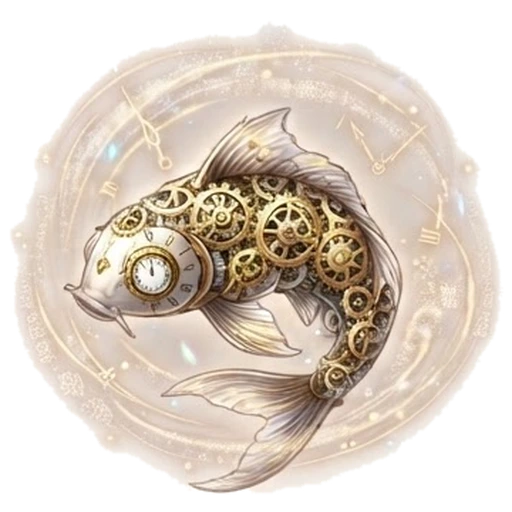
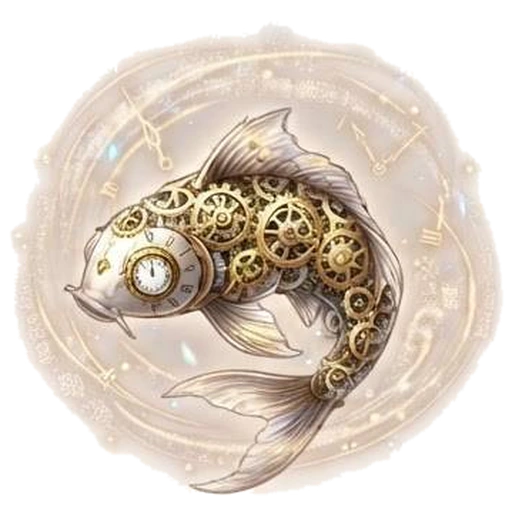
星露島：時鐘鯉、極光鰩、鏡面魚、星海龜、序光魚、龍骨鯨、逆流之王改成透明底；雲朵玉米濃湯的圖
Claude-Session: https://claude.ai/code/session_014BhPeNrpvZrWQU4v9wXcG7

diff --git a/index.html b/index.html
@@ -7239,7 +7239,7 @@
 <script src="game.js"></script>
 <script src="accum.js?v=20261019b"></script>
 <script src="farm-data.js?v=20261019d"></script>
-<script src="farm-fish.js?v=20261019j"></script>
+<script src="farm-fish.js?v=20261019k"></script>
 <script src="farm.js?v=20261019h"></script>
 <script src="fold.js?v=20261017a"></script>
 <script src="friends.js?v=20261019a"></script>

diff --git a/farm-fish.js b/farm-fish.js
@@ -83,6 +83,7 @@
     "frost_dragon_carp","backlight_whale","wing_mackerel",
     "sky_mirror_whale","nameless_white_carp","cloud_peak_shark",
     "dew_carp","wind_chime_perch","crystal_shrimp","amber_perch",
+    "dish_corn_cloud",
     "dish_apple_maple",
     "dish_banana_mirror",
     "dish_bean_catfish",
